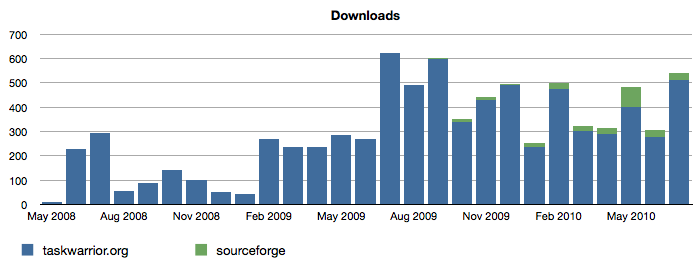
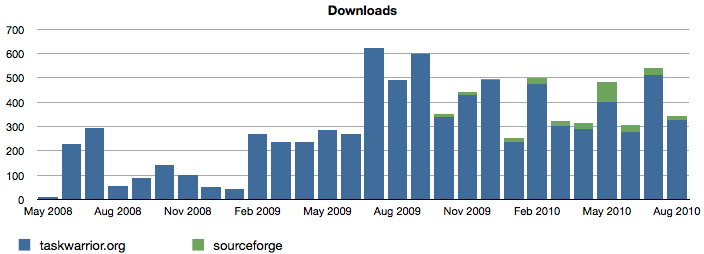
Updates stats for August.

diff --git a/public_html/stats/index.html b/public_html/stats/index.html
@@ -21,7 +21,8 @@
       <br />
       Visits to taskwarrior.org and tasktools.org.
 
-      The recent uptrend most likely due solely to the Dirk Deimeke articles.
+      The recent uptrend due solely to the Dirk Deimeke articles and the new
+      Wikipedia page.
       <br />
       <br />
       <br />
@@ -70,8 +71,9 @@
       test suite with limited coverage, and a sudden increase in the number of
       users.
 
-      The fix rate closely matches the find rate, which means that the number of
-      outstanding bugs remains fairly constant.
+      The fix rate closely matches the find rate, which means that we are very
+      responsive to bugs, and the number of outstanding bugs remains fairly
+      constant.
       <br />
       <br />
       <br />
@@ -117,6 +119,12 @@
     </p>
     <p>
       <img src="os.png" />
+      <br />
+      <br />
+      The percentage of Windows downloads is at its lowest.
+      <br />
+      <br />
+      <br />
     </p>
 
 <!-- Piwik -->
